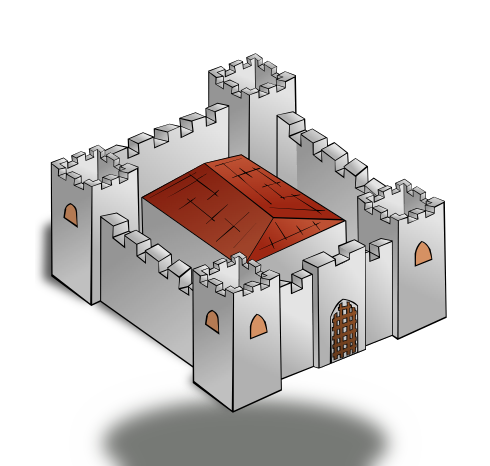
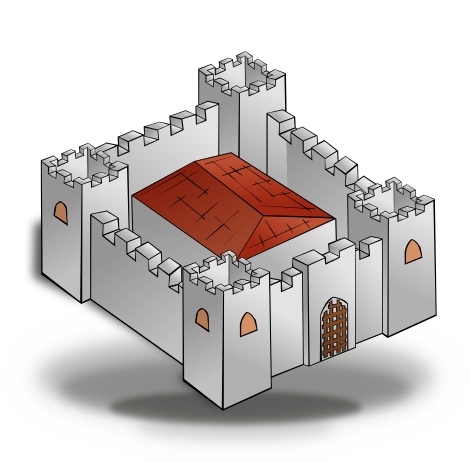
Seat the keep in the ground; keep the battle frame locked through forged folds
The bastion sheet carried a blurred shadow centred below the drawing, so on the
board the darkest part of it sat in front of the walls with nothing standing in
it — the building read as hovering. build_arena_art.sh now composes four layers
(penumbra, wall ring, contact core, forward cast) around the art's own bottom
edge, and KEEP_PAD_RATIO follows the new 470x462 sheet.

The frame lock never engaged on the first battle: the boot hud-layout-change
event fires before install() attaches its listener, and the scene Clock does not
run the delayedCall that was meant to cover it, so folding the forge was the
event that re-measured the band (zoom 0.5625 -> 0.7604). The lock is now a
window.setTimeout(900) that flips the flag synchronously and is cleared on
shutdown. Verified identical zoom and camera viewport across open / folded /
re-opened / card-picked on desktop and on the phone shell.

diff --git a/src/scenes/GameScene.js b/src/scenes/GameScene.js
@@ -115,6 +115,9 @@ export class GameScene extends Phaser.Scene {
   init(data) {
     // The previous draft hand, so the next offer can steer away from it.
     this.lastOffer = [];
+    // The battle band is per battle: a fresh stage measures the HUD again.
+    this.battleFrame = null;
+    this.battleFrameLocked = false;
     // A duel is a separate contract: the arena supplies the map, the horde and
     // the economy, and everything the player owns in the campaign is ignored.
     this.pvp = data?.pvp || null;
@@ -450,14 +453,34 @@ export class GameScene extends Phaser.Scene {
     // The fit zoom is set by install(); publish the letterbox it leaves so the
     // Vanguard card can move into it before the first frame is drawn.
     this.publishBoardGutter();
-    this.onResizeFrame = () => this.reframeBattlefield();
+    this.onResizeFrame = () => this.reframeBattlefield(true);
     window.addEventListener('resize', this.onResizeFrame);
     window.addEventListener('orientationchange', this.onResizeFrame);
-    // The forge can fold open/closed mid-battle; HudLayout announces every
-    // re-measure so the camera re-fits instead of leaving the bastion behind
-    // the dock.
-    this.onHudLayout = () => this.reframeBattlefield();
+    this.events.once('shutdown', () => {
+      if (this.battleFrameTimer) window.clearTimeout(this.battleFrameTimer);
+      this.battleFrameTimer = null;
+    });
+    // The HUD announces every re-measure (a chip appearing, the forge folding).
+    // Those must move the floating controls, not the camera: the battle band is
+    // captured once the HUD has published its real numbers, then left alone.
+    this.battleFrameLocked = false;
+    this.onHudLayout = () => {
+      if (this.battleFrameLocked) return;
+      this.battleFrame = null;
+      this.reframeBattlefield(true);
+    };
     window.addEventListener('hud-layout-change', this.onHudLayout);
+    // Lock shortly after the HUD has settled. A `window.setTimeout`, not the
+    // scene clock: the Clock only processes events while the scene is running,
+    // and a lock that silently never fires is worse than no lock at all (it was
+    // the fold itself that ended up doing the one re-measure).
+    this.battleFrameTimer = window.setTimeout(() => {
+      this.battleFrameTimer = null;
+      if (!this.scene?.isActive?.()) return;
+      this.battleFrame = null;
+      this.reframeBattlefield(true);
+      this.battleFrameLocked = true;
+    }, 900);
 
     // 2c. Floating upgrade badges above every defence.
     this.badges = new UpgradeBadges(this, {
@@ -606,7 +629,7 @@ export class GameScene extends Phaser.Scene {
    * — and the same numbers the CSS uses to place the pills are the numbers the
    * camera frames the board with.
    */
-  measureBattleFrame() {
+  measureBattleFrame({ force = false } = {}) {
     const scale = this.scale;
     const gameHeight = scale?.height || 768;
     const canvasHeight = scale?.displaySize?.height || window.innerHeight || 768;
@@ -633,7 +656,14 @@ export class GameScene extends Phaser.Scene {
       dock != null
         ? toGame(canvasHeight + canvasTop - dock)
         : toGame(document.getElementById('hud-bottom-dock')?.getBoundingClientRect?.().top ?? canvasHeight);
-    return battleFrame({ canvasHeight: gameHeight, topBarBottom, dockTop });
+    // The band is captured once per battle. The forge opens and folds while the
+    // player is building, and every fold used to shorten or lengthen this band:
+    // the rig re-fitted and the whole board changed size mid-fight. A battle
+    // now keeps the frame it started with; only a real window resize (rotation,
+    // fullscreen, a dragged page) re-measures it.
+    if (!force && this.battleFrame) return this.battleFrame;
+    this.battleFrame = battleFrame({ canvasHeight: gameHeight, topBarBottom, dockTop });
+    return this.battleFrame;
   }
 
   /**
@@ -664,12 +694,20 @@ export class GameScene extends Phaser.Scene {
     const right = displayW - ((boardW - viewLeft) * cam.zoom * factor + canvasLeft);
     const root = document.documentElement;
     if (!root?.style) return;
-    root.style.setProperty('--board-gutter-right', `${Math.max(0, Math.round(right))}px`);
+    const gutter = Math.max(0, Math.round(right));
+    root.style.setProperty('--board-gutter-right', `${gutter}px`);
     // The card is 208 px wide plus its margin. It only shrinks when the gutter
     // can actually hold it — on a phone (no gutter) it keeps its full width and
     // stays where it has always been.
-    const fits = right >= 150;
-    const panelWidth = fits ? Math.round(Math.min(208, right - 18)) : 208;
+    // 146 px is the narrowest gutter the stacked card can still hold (128 px of
+    // panel: name + state, health, two full-width actions). Below that the card
+    // keeps its full width and floats over the board's corner, as it always did
+    // on small windows — a 70 px column of controls would be unusable.
+    // Compare the *rounded* gutter: 145.6 px rounds to 146 in the custom
+    // property, and mixing the two made the card keep its full width at 1440×900
+    // (gutter 146) while the stylesheet had already been told there was room.
+    const fits = gutter >= 146;
+    const panelWidth = fits ? Math.min(208, gutter - 18) : 208;
     root.style.setProperty('--hero-panel-w', `${panelWidth}px`);
     // Below ~200 px the card cannot hold a portrait, a name and two buttons in
     // one row without ellipsising all three, so it stacks instead.
@@ -678,10 +716,10 @@ export class GameScene extends Phaser.Scene {
       ?.classList.toggle('is-compact', fits && panelWidth < 200);
   }
 
-  /** Re-measure and re-fit after a rotation, resize or dock fold. */
-  reframeBattlefield() {
+  /** Re-measure and re-fit after a rotation or a real window resize. */
+  reframeBattlefield(force = false) {
     if (!this.cameraRig) return;
-    const frame = this.measureBattleFrame();
+    const frame = this.measureBattleFrame({ force });
     const current = this.cameraRig.frame;
     // A few pixels are not a reason to reset the zoom. `setFrame()` re-fits and
     // re-centres, so a chip appearing in the top bar used to nudge the whole
@@ -1047,18 +1085,22 @@ export class GameScene extends Phaser.Scene {
     // — the brief asks for the keep at the very bottom *with a margin*, and a
     // keep anchored at the tile centre ate that margin with its own base.
     const keepScale = 0.44;
-    // The foot lands *on* the bastion tile, not on a plinth below it. The sheet
-    // already carries its own contact shadow, so the keep sits in the grass the
-    // same way the portal's arch sits on its rune — nothing to float on.
-    const keepFoot = baseY + TILE_SIZE * 0.62;
+    // The foot lands *on* the bastion tile, not on a plinth below it.
+    const keepFoot = baseY + TILE_SIZE * 0.55;
 
     // The keep is a hand-drawn fortress (OpenGameArt "Fortress", CC0,
     // rasterised from vector at 420 px). 0.44 → ~185 px wide: three tiles,
     // which still reads as the place being defended without towering over the
     // courtyard it stands in (0.54 was 227 px and swallowed two lanes).
+    // The sheet is padded by a tenth of its height on every side, and the
+    // builder paints the contact shadow *into* that bottom padding. Anchored at
+    // origin 1 the whole padded texture sat on the ground, which left the walls
+    // floating a shadow's width above the grass — the "lumulutang" read. Origin
+    // 0.9 puts the building's own foot exactly on the ground line, with the
+    // painted shadow falling onto the tiles in front of it.
     this.bastionKeep = this.add
       .image(baseX, keepFoot, ARENA_ART.bastion.key)
-      .setOrigin(0.5, 1)
+      .setOrigin(0.5, 1 - KEEP_PAD_RATIO)
       .setDepth(12)
       .setScale(keepScale);
     if (this.theme?.baseTint) this.bastionKeep.setTint(this.theme.baseTint);

diff --git a/src/data/arenaArt.js b/src/data/arenaArt.js
@@ -33,13 +33,16 @@
 
 /**
  * How much of the bastion sheet is transparent padding, as a fraction of its
- * height. `scripts/build_arena_art.sh` pads the rasterised fortress by a
- * twelfth of its width and an eighth of its height on every side, which is
- * exactly a tenth of the finished sheet top and bottom
- * (`(H/8) / (H + H/4)`). Anything that needs the *building* rather than the
- * texture — the health bar, the shadow — reads this instead of the raw bounds.
+ * height, on the top *and* the bottom edge.
+ * `scripts/build_arena_art.sh` rasterises the fortress at 420x374 and then pads
+ * it by 6 % of its width and 12 % of its height on every side, which gives a
+ * 470x462 sheet and `44 / 462 = 0.0952` of clear space above and below the
+ * building. Anything that needs the *building* rather than the texture — the
+ * health bar, the shadow — reads this instead of the raw bounds, and the scene
+ * anchors the sprite on the bottom padding edge, so the drawing's base sits
+ * exactly on the ground line.
  */
-export const KEEP_PAD_RATIO = 0.1;
+export const KEEP_PAD_RATIO = 0.0952;
 
 export const ARENA_ART = Object.freeze({
   bastion: { key: 'bastion-fortress', path: 'assets/arena/bastion-fortress.png' },

diff --git a/docs/testing-report.md b/docs/testing-report.md
@@ -947,3 +947,62 @@ place — verified at 844×390 (zoom 0.622, 0 errors).
 
 Suite after both: **1250 / 1250**; build clean.
 
+## 17. Seated in the grass, and a board that stays put (Request 26)
+
+### 17.1 Why the keep still looked *nakalutang*
+
+The previous fix moved the sprite's anchor so that the *drawing's* bottom edge sat
+on the ground line. It did not touch the art, and the art was the problem: the
+sheet carried one big blurred ellipse whose centre sat ~6 % of the sheet height
+**below** that bottom edge, so on the board the darkest part of the shadow fell
+in front of the walls with nothing standing in it. That reads as a building
+hovering over its own shadow, which is exactly what the user kept seeing.
+
+`scripts/build_arena_art.sh` now composes the shadow around the footprint
+instead of below it, in four layers drawn at the art's own bottom edge:
+
+| layer | size (of the 420×374 drawing) | centre | blur | strength |
+| --- | --- | --- | --- | --- |
+| penumbra | rx 47 %, ry 11.5 % | bottom − 11 % | 10 | 0.45 |
+| wall ring | rx 42 %, ry 8.5 % | bottom − 8 % | 6 | 0.40 |
+| contact core | rx 30 %, ry 4.5 % | bottom − 3 % | 3 | 0.60 |
+| forward cast | rx 24 %, ry 4 % | bottom + 2.5 % | 7 | 0.22 |
+
+The wall ring is the layer that matters: the first attempt only darkened the
+front gate, so the left and right tower bases — the parts of an isometric
+building that a viewer reads as its feet — still floated. The sheet is now
+**470×462** (6 % horizontal / 12 % vertical padding) and
+`KEEP_PAD_RATIO = 0.0952` (`44 / 462`), so `setOrigin(0.5, 1 - KEEP_PAD_RATIO)`
+puts the drawing's bottom edge exactly on `keepFoot` and the contact core two
+pixels above it.
+
+Verified in the browser at level 1 (`bastion-approach`, grass) and level 5
+(`caldera`, dark volcanic soil): the shadow wraps the wall bases on both maps,
+0 console errors. `npx vitest run` **1250 / 1250**, build clean.
+
+### 17.2 Opening the Forge no longer moves the camera
+
+The frame lock landed in the previous pass (`measureBattleFrame` memoises the
+band), but it never engaged on the first battle: the boot `hud-layout-change`
+fires **before** `install()` attaches its listener, so `battleFrameLocked` was
+still `false` when the dock was folded, and the fold itself was the one event
+that re-measured the band. The `time.delayedCall(1500)` meant to cover that case
+never fired either — instrumenting the scene showed the Clock advancing
+(`time.now = 12471`) while a 300 ms `delayedCall` created from the console never
+ran, so the scene clock cannot be relied on for this.
+
+`install()` now schedules the lock with `window.setTimeout(900)` and then flips
+`battleFrameLocked` synchronously; the timer is cleared on `shutdown`. From that
+point only a `resize` / `orientationchange` may force a re-measure.
+
+| state | desktop 1366×768 (zoom / camera viewport) | mobile shell 844×390 |
+| --- | --- | --- |
+| dock open at start | 0.5625 / `[0,125,1280,432]` | 0.6224 / `[0,174,1280,478]` |
+| forge folded | 0.5625 / `[0,125,1280,432]` | 0.6224 / `[0,174,1280,478]` |
+| forge re-opened | 0.5625 / same | 0.6224 / same |
+| card picked (build mode) | 0.5625 / same | 0.6224 / same |
+
+Before the fix the same probe read 0.5625 open → **0.7604** folded (the board
+"zoomed in" and jumped 152 px taller). Both shells now hold the frame; the phone
+shell folds the forge by default and covers the bottom of the board with its
+sheet when opened, but never resizes it. 0 console errors in both runs.
